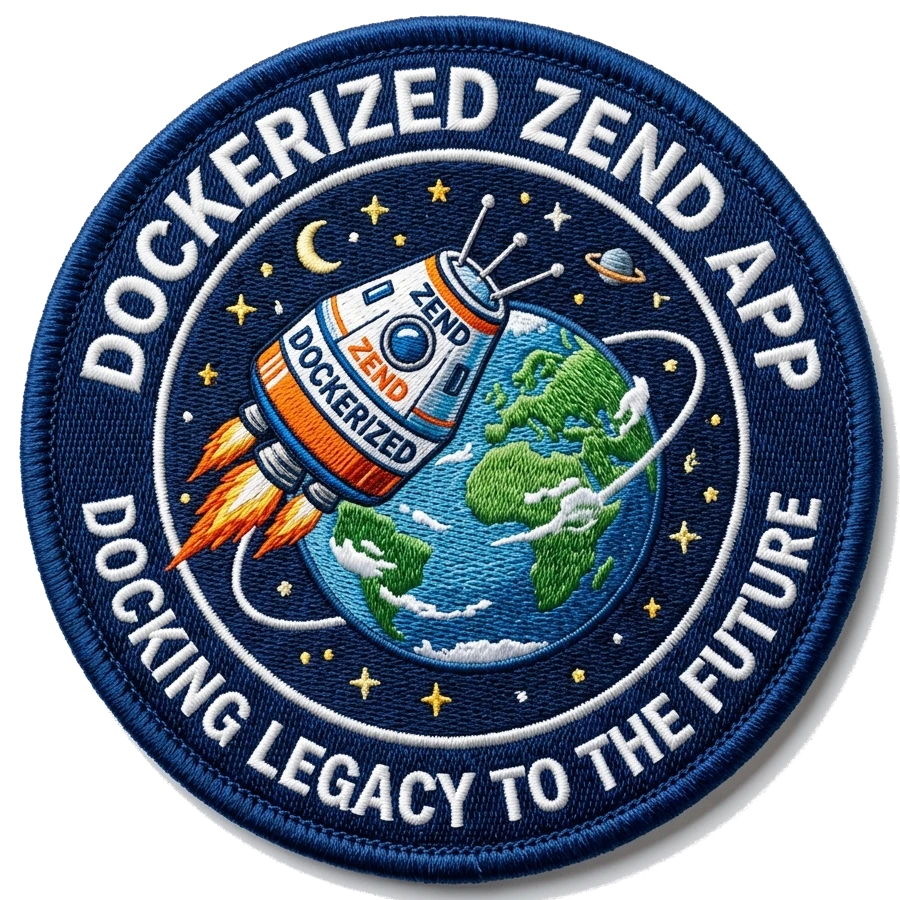
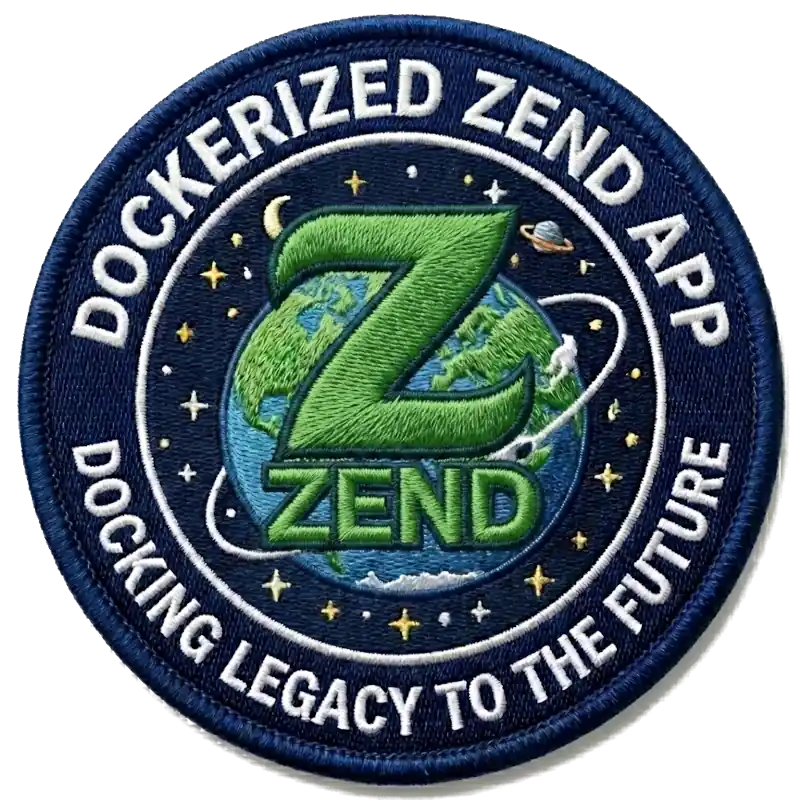
fix: improve PHP error reporting stability, add ZF1 library detection, update default reporting level, and refactor cron environment variable export

diff --git a/docker/scripts/setup-index.py b/docker/scripts/setup-index.py
@@ -39,8 +39,13 @@ def main():
             if os.path.isdir(item_path):
                 # Check for standard subfolders like 'Classes' (common for PHPExcel)
                 classes_path = os.path.join(item_path, 'Classes')
+                # Check for standard subfolders like 'library' (standard for Zend Framework 1 releases)
+                library_path = os.path.join(item_path, 'library')
+                
                 if os.path.isdir(classes_path):
                     container_path = f"/var/www/html/weblibs/{item}/Classes"
+                elif os.path.isdir(library_path):
+                    container_path = f"/var/www/html/weblibs/{item}/library"
                 else:
                     container_path = f"/var/www/html/weblibs/{item}"
                 detected_paths.append(container_path)